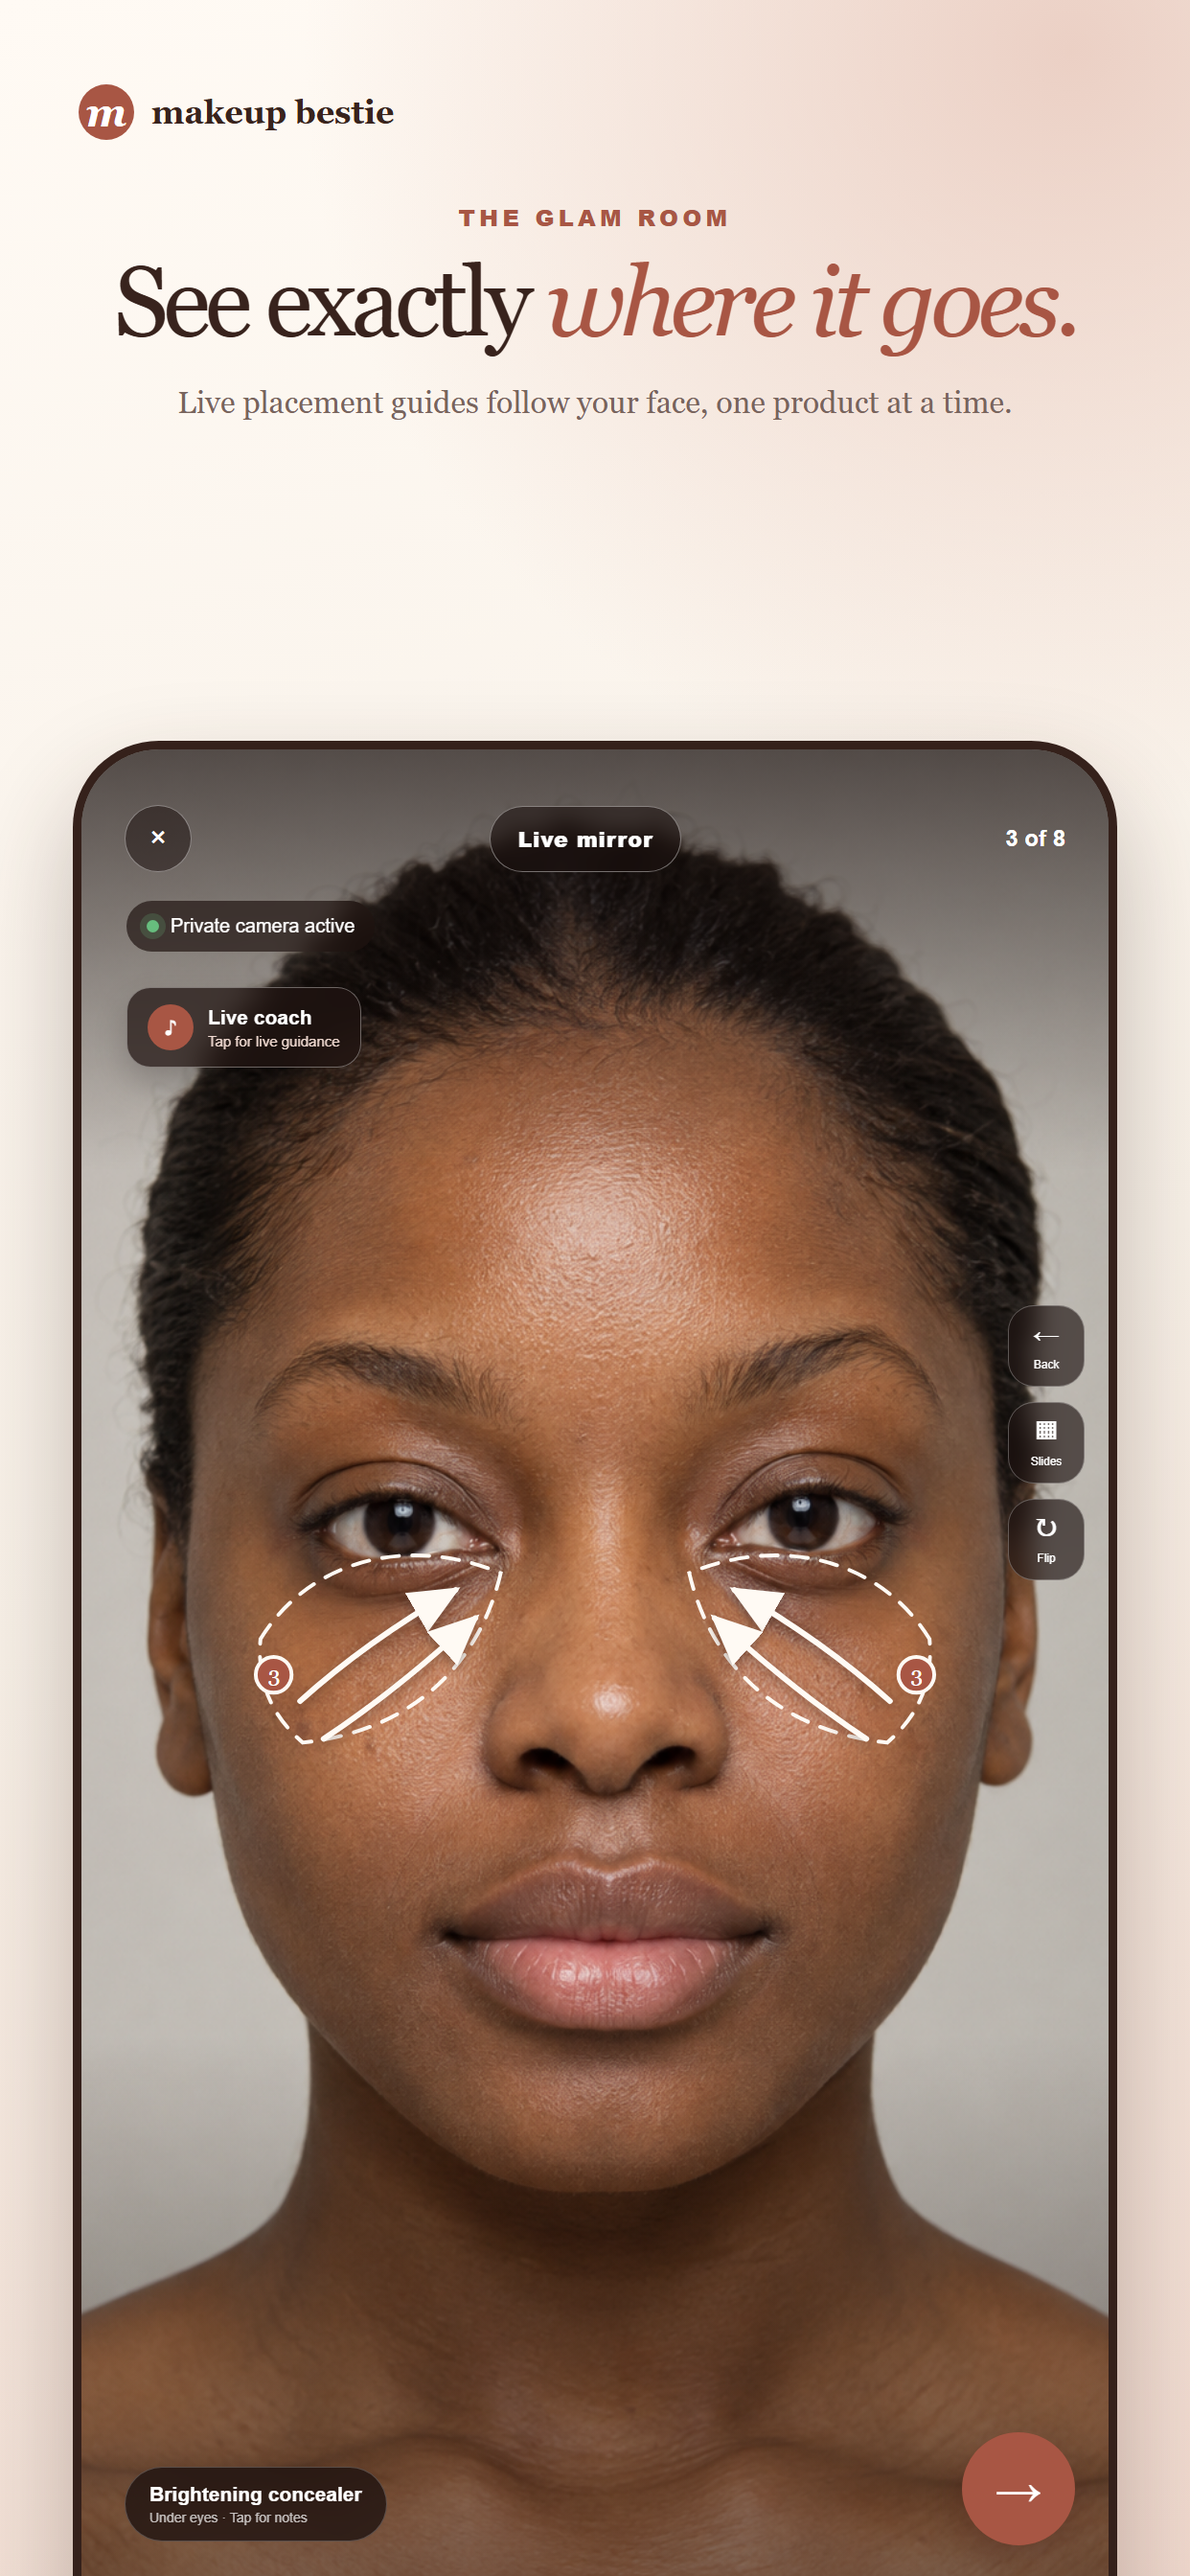
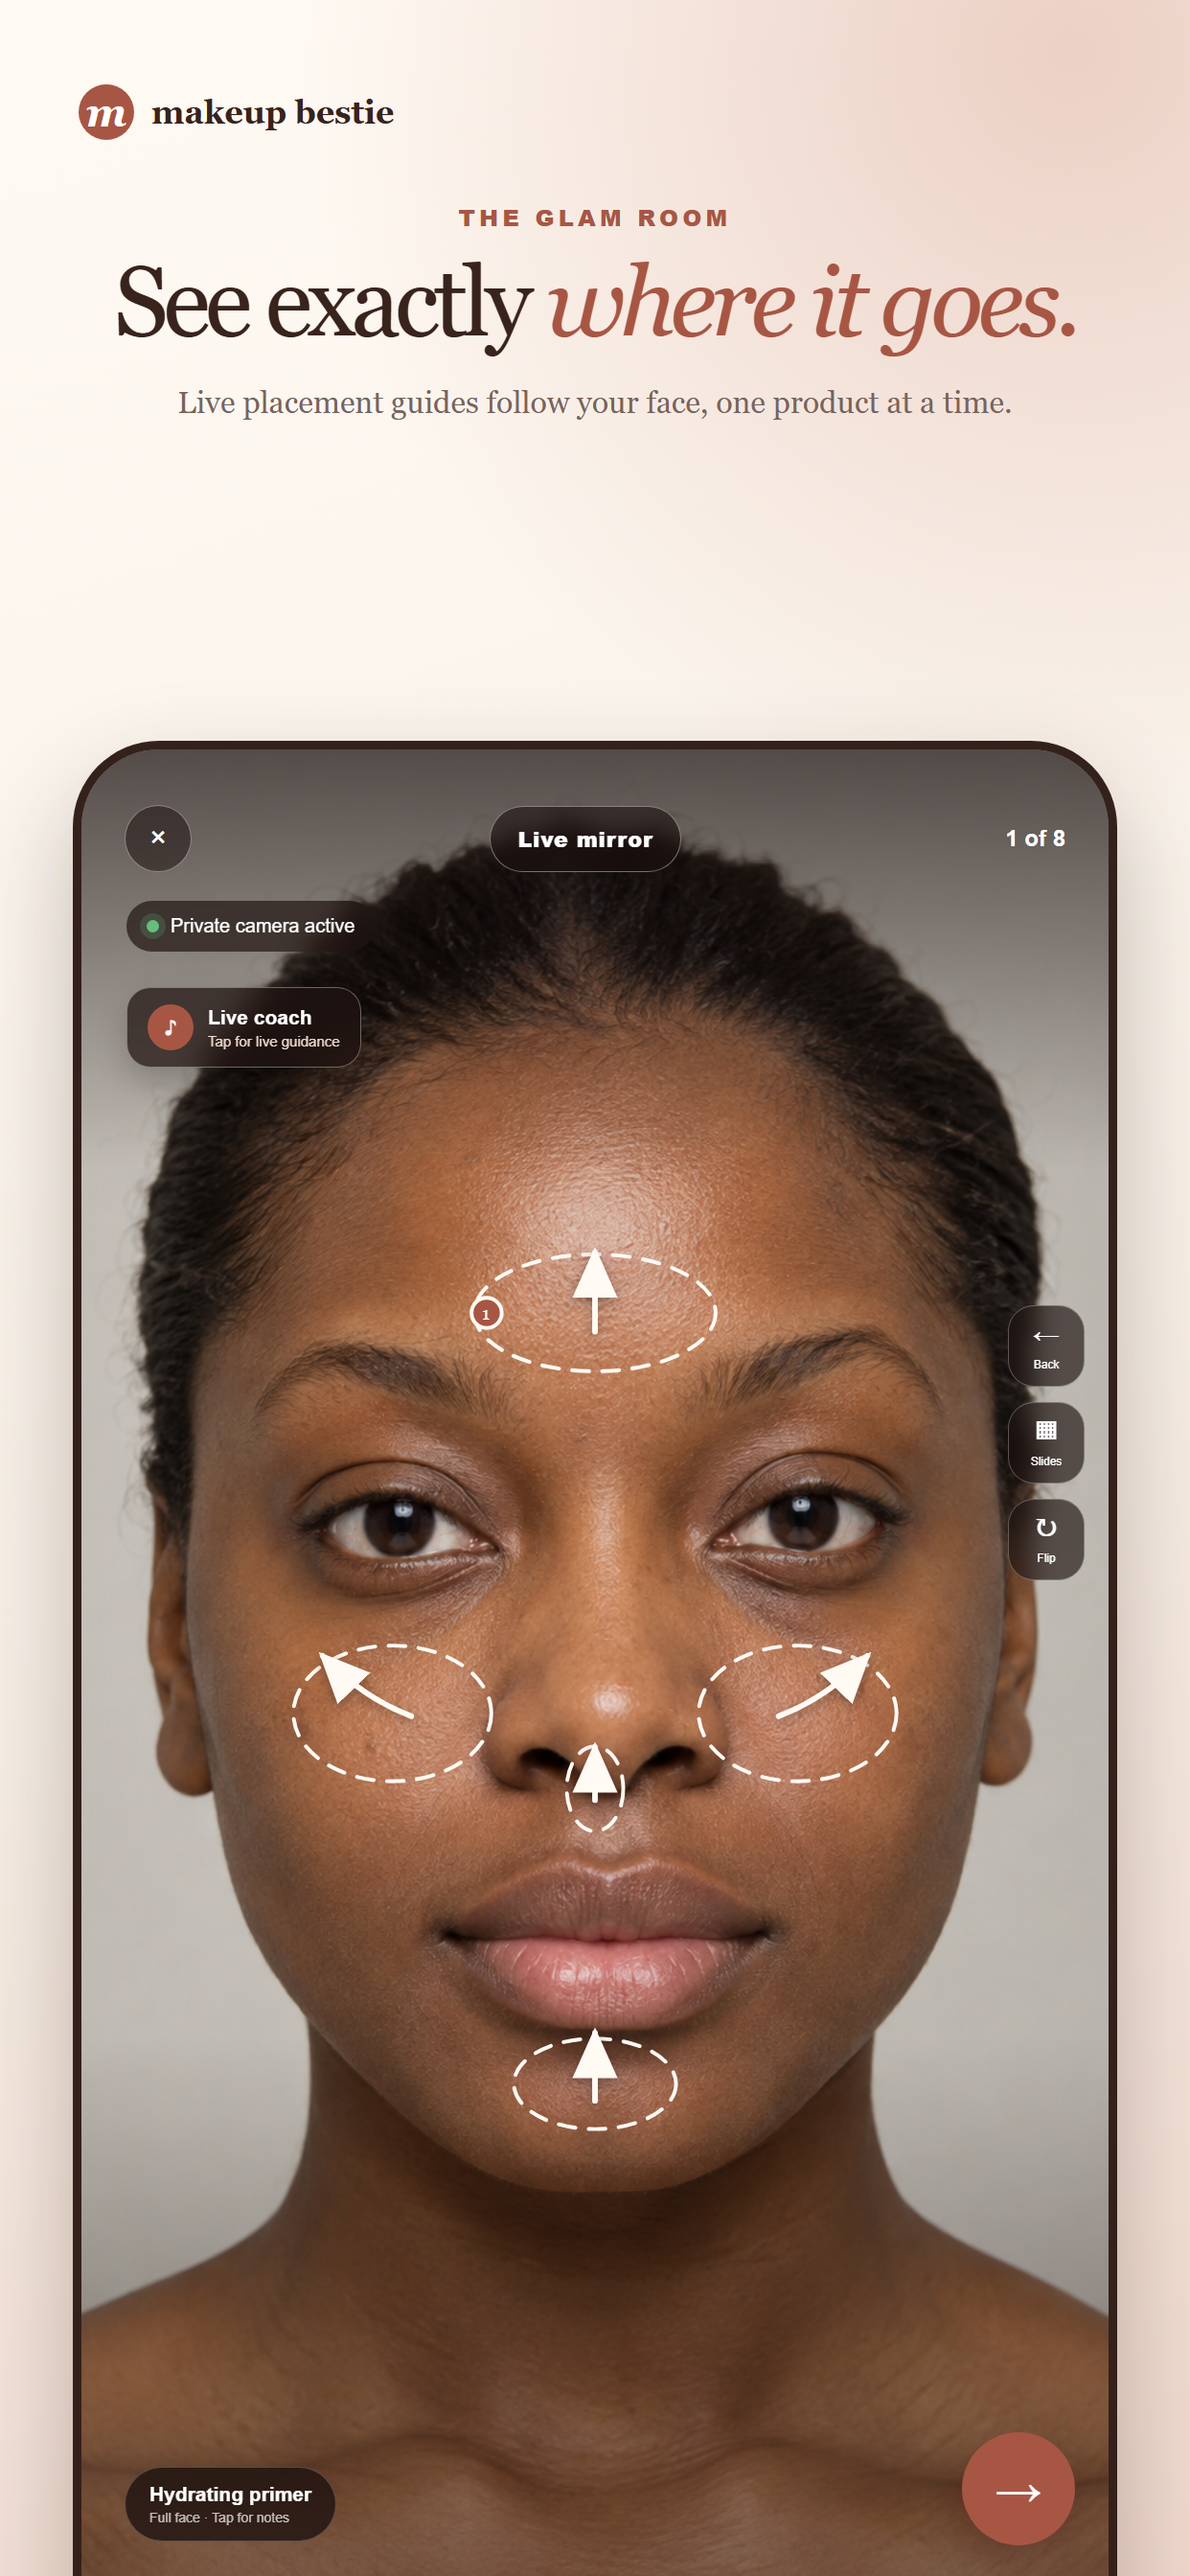
Fix live notes pill and simplify App Store guides

diff --git a/app-store-assets/render.html b/app-store-assets/render.html
@@ -109,22 +109,25 @@
     </div>
     <div class="device">
       <div class="camera"><img src="source/face-model.png" alt="" /></div>
-      <div class="chrome"><span class="close">×</span><span class="mode">Live mirror</span><span class="count">3 of 8</span></div>
+      <div class="chrome"><span class="close">×</span><span class="mode">Live mirror</span><span class="count">1 of 8</span></div>
       <div class="privacy"><i></i> Private camera active</div>
       <div class="coach"><span class="coach-icon">♪</span><span><b>Live coach</b><small>Tap for live guidance</small></span></div>
       <svg class="face-guide" viewBox="0 0 1090 2020" aria-hidden="true">
         <defs><marker id="arrow" markerWidth="12" markerHeight="12" refX="8" refY="4" orient="auto"><path d="M0,0 L0,8 L9,4 z" fill="#fffaf4"/></marker></defs>
-        <path class="guide-fill" d="M190 936 C240 855 342 824 445 866 C421 968 346 1034 235 1046 C202 1018 186 982 190 936 Z"/>
-        <path class="guide-fill" d="M900 936 C850 855 748 824 645 866 C669 968 744 1034 855 1046 C888 1018 904 982 900 936 Z"/>
-        <path class="guide-arrow" d="M232 1002 C274 964 326 925 397 884"/>
-        <path class="guide-arrow" d="M257 1042 C307 1009 358 969 418 914"/>
-        <path class="guide-arrow" d="M858 1002 C816 964 764 925 693 884"/>
-        <path class="guide-arrow" d="M833 1042 C783 1009 732 969 672 914"/>
-        <circle class="guide-dot" cx="204" cy="974" r="19"/><text x="198" y="982" fill="white" font-size="23" font-family="Georgia">3</text>
-        <circle class="guide-dot" cx="886" cy="974" r="19"/><text x="880" y="982" fill="white" font-size="23" font-family="Georgia">3</text>
+        <ellipse class="guide-fill" cx="545" cy="590" rx="128" ry="62"/>
+        <ellipse class="guide-fill" cx="330" cy="1015" rx="105" ry="72"/>
+        <ellipse class="guide-fill" cx="760" cy="1015" rx="105" ry="72"/>
+        <ellipse class="guide-fill" cx="545" cy="1095" rx="30" ry="45"/>
+        <ellipse class="guide-fill" cx="545" cy="1408" rx="86" ry="48"/>
+        <path class="guide-arrow" d="M545 610 C545 577 545 553 545 526"/>
+        <path class="guide-arrow" d="M350 1018 C311 1003 281 980 256 954"/>
+        <path class="guide-arrow" d="M740 1018 C779 1003 809 980 834 954"/>
+        <path class="guide-arrow" d="M545 1107 C545 1083 545 1068 545 1051"/>
+        <path class="guide-arrow" d="M545 1426 C545 1399 545 1379 545 1354"/>
+        <circle class="guide-dot" cx="430" cy="590" r="16"/><text x="425" y="597" fill="white" font-size="19" font-family="Georgia">1</text>
       </svg>
       <div class="toolbar"><span class="tool"><b>←</b><small>Back</small></span><span class="tool"><b>▦</b><small>Slides</small></span><span class="tool"><b>↻</b><small>Flip</small></span></div>
-      <div class="product-pill"><b>Brightening concealer</b><small>Under eyes · Tap for notes</small></div>
+      <div class="product-pill"><b>Hydrating primer</b><small>Full face · Tap for notes</small></div>
       <div class="next-product">→</div>
     </div>
   </section>
@@ -138,26 +141,32 @@
     </div>
     <div class="device">
       <div class="slide-photo"><img src="source/face-model.png" alt="" /></div>
-      <div class="chrome"><span class="close">×</span><span class="mode">Guided slides</span><span class="count">3 of 8</span></div>
+      <div class="chrome"><span class="close">×</span><span class="mode">Guided slides</span><span class="count">2 of 8</span></div>
       <div class="privacy"><i></i> Your photo · private guide</div>
       <div class="coach"><span class="coach-icon">♪</span><span><b>Live coach</b><small>Tap for live guidance</small></span></div>
       <svg class="face-guide" style="height:1355px" viewBox="0 0 1090 1355" aria-hidden="true">
         <defs><marker id="arrow2" markerWidth="12" markerHeight="12" refX="8" refY="4" orient="auto"><path d="M0,0 L0,8 L9,4 z" fill="#fffaf4"/></marker></defs>
-        <path class="guide-fill" d="M183 743 C242 674 345 660 443 700 C412 788 337 835 228 844 C199 817 181 783 183 743 Z"/>
-        <path class="guide-fill" d="M907 743 C848 674 745 660 647 700 C678 788 753 835 862 844 C891 817 909 783 907 743 Z"/>
-        <path class="guide-arrow" style="marker-end:url(#arrow2)" d="M228 815 C281 782 335 748 403 704"/>
-        <path class="guide-arrow" style="marker-end:url(#arrow2)" d="M862 815 C809 782 755 748 687 704"/>
+        <ellipse class="guide-fill" cx="545" cy="420" rx="122" ry="55"/>
+        <ellipse class="guide-fill" cx="330" cy="805" rx="112" ry="76"/>
+        <ellipse class="guide-fill" cx="760" cy="805" rx="112" ry="76"/>
+        <ellipse class="guide-fill" cx="545" cy="820" rx="28" ry="38"/>
+        <ellipse class="guide-fill" cx="545" cy="1082" rx="76" ry="39"/>
+        <path class="guide-arrow" style="marker-end:url(#arrow2)" d="M545 438 C545 407 545 382 545 357"/>
+        <path class="guide-arrow" style="marker-end:url(#arrow2)" d="M345 808 C305 795 275 775 249 750"/>
+        <path class="guide-arrow" style="marker-end:url(#arrow2)" d="M745 808 C785 795 815 775 841 750"/>
+        <path class="guide-arrow" style="marker-end:url(#arrow2)" d="M545 830 C545 810 545 797 545 782"/>
+        <path class="guide-arrow" style="marker-end:url(#arrow2)" d="M545 1095 C545 1072 545 1053 545 1032"/>
       </svg>
-      <div class="slide-controls"><span>←</span><span class="step">3 / 8 · Details</span><span>→</span></div>
+      <div class="slide-controls"><span>←</span><span class="step">2 / 8 · Details</span><span>→</span></div>
       <div class="lesson-sheet">
         <div class="handle"></div>
-        <div class="queue"><span>Application queue</span><span>Step 3 of 8</span></div>
-        <div class="dots"><i class="on"></i><i class="on"></i><i class="on"></i><i></i><i></i><i></i><i></i><i></i></div>
+        <div class="queue"><span>Application queue</span><span>Step 2 of 8</span></div>
+        <div class="dots"><i class="on"></i><i class="on"></i><i></i><i></i><i></i><i></i><i></i><i></i></div>
         <p class="now">NOW WE’RE USING</p>
-        <h2>Brightening concealer</h2>
-        <span class="chip">Under eyes</span>
-        <p class="instruction">Tap a thin veil from the inner corner outward, then soften the edge upward.</p>
-        <div class="personalized"><small>PLACEMENT FOR YOUR FACE</small><p>Keep the brightest point near the inner corner and blend lightly toward the temple.</p></div>
+        <h2>Skin tint foundation</h2>
+        <span class="chip">Full face</span>
+        <p class="instruction">Tap on a thin layer, then blend outward in short sections so the finish stays even.</p>
+        <div class="personalized"><small>PLACEMENT FOR YOUR FACE</small><p>Start at the center of each section and soften toward the hairline and jaw.</p></div>
         <div class="lesson-actions"><span>← Previous</span><span class="primary">Done—next product →</span></div>
       </div>
     </div>

diff --git a/app/routine-flow.css b/app/routine-flow.css
@@ -135,9 +135,9 @@
 .minimalist-mirror .mirror-bottom-actions {
   position:absolute;
   z-index:31;
-  right:max(14px,var(--safe-right));
-  bottom:calc(max(14px,var(--safe-bottom)) + 2px);
-  left:max(14px,var(--safe-left));
+  right:max(20px,calc(var(--safe-right) + 14px));
+  bottom:max(20px,calc(var(--safe-bottom) + 14px));
+  left:max(20px,calc(var(--safe-left) + 14px));
   display:grid;
   grid-template-columns:minmax(0,1fr) 58px;
   align-items:center;
@@ -147,13 +147,14 @@
 .minimalist-mirror .mirror-product {
   position:static;
   display:grid;
-  justify-self:start;
+  justify-self:stretch;
   gap:2px;
-  width:auto;
-  max-width:min(76vw,330px);
+  width:100%;
+  min-width:0;
+  max-width:none;
   height:auto;
   min-height:48px;
-  padding:8px 15px;
+  padding:9px 17px;
   transform:none;
   border:1px solid rgba(255,255,255,.22);
   border-radius:99px;
@@ -351,7 +352,7 @@
 }
 
 @media (max-width:380px) {
-  .minimalist-mirror .mirror-bottom-actions { grid-template-columns:minmax(0,1fr) 52px;gap:8px; }
+  .minimalist-mirror .mirror-bottom-actions { right:max(14px,calc(var(--safe-right) + 10px));left:max(14px,calc(var(--safe-left) + 10px));grid-template-columns:minmax(0,1fr) 52px;gap:8px; }
   .minimalist-mirror .mirror-next { width:52px;height:52px; }
   .minimalist-mirror .mirror-toolbar { right:max(7px,var(--safe-right)); }
   .minimalist-mirror .mirror-toolbar button,
